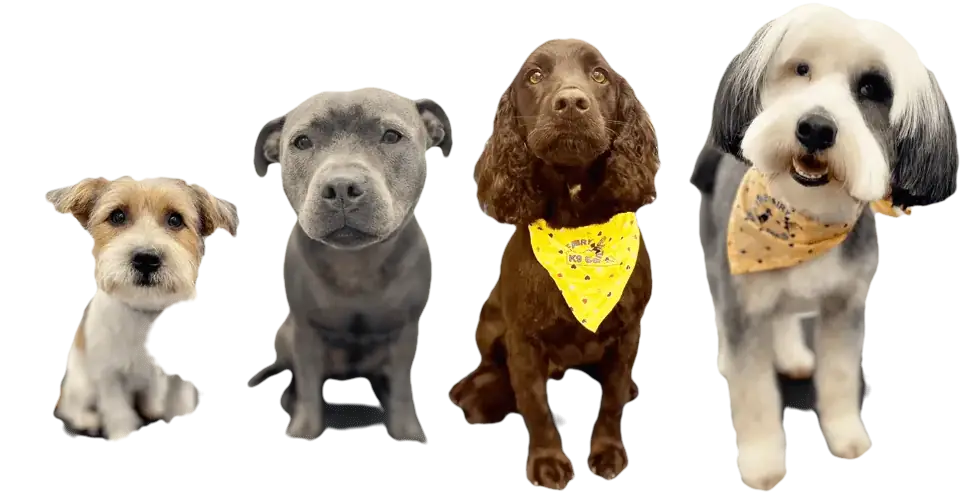
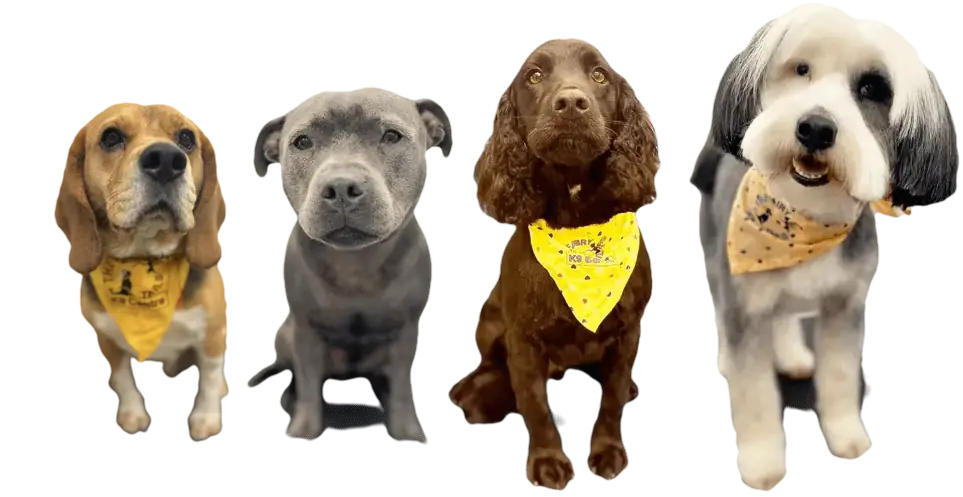
Hero: replace the handoff's cropped terrier with the owner's beagle
The handoff's leftmost dog read as cut off, and measurement confirmed it: its
feet stopped at row 440 while dogs 3 and 4 reach 489/490, so its lower body was
cropped in the original composite. Owner supplied a photo of his beagle - in a
Fairy Tails K9 Centre bandana, matching dogs 3 and 4 - to replace it.

Background removed with rembg (isnet-general-use + alpha matting), trimmed to
its alpha bbox, and composited IN THE SCRIPT rather than by hand-editing an
asset, so regeneration is reproducible. Sized to the staffie (a beagle is that
build) and stood on the back row's ground line, so the pack keeps its
small->large left-to-right reading.

beagle-cut.png lives in the gitignored handoff assets folder with the other
sources, so hero-assets.mjs now THROWS if it is missing - without that guard a
regeneration on another machine would silently emit the pack with the old
cropped terrier back in it, and no gate would catch it.

The swap moved the pack's top outline, so CONTOUR, GLINTS and ART_L were
re-measured against the new artwork. This was not optional: the old [127,373]
ended up 47px INSIDE the beagle's head, and [186,391] and [64,379] landed on
empty stage - stars would have rained into thin air on one side and been buried
in fur on the other. The two leftmost glints moved with it. New set verified at
a mean 3.6px clearance above the fur, and eyeballed at p=0.48, the frame where
the shower actually reaches that dog.
[…]

Changed region(s): [[0.0312, 0.2113, 0.2492, 0.9054]]

diff --git a/HANDOVER.md b/HANDOVER.md
@@ -21,6 +21,27 @@ Branch `hero-v2-pack-animation` → `main`. All gates green before the push (see
    (`4.9 ★★★★★ · 63 reviews`) removed; the "Verbatim excerpts… refreshed weekly" caption
    removed; the card grid replaced with a **swipe/arrow carousel**.
 
+### Follow-up the same session: dog 1 replaced (owner)
+
+The handoff's leftmost dog — a wire terrier — read as **cut off**, and measurement confirmed it:
+its feet stopped at row 440 while dogs 3 and 4 reach 489/490, i.e. its lower body was cropped in
+the original composite. The owner supplied a photo of his beagle (in a Fairy Tails K9 Centre
+bandana, matching dogs 3 and 4) to replace it.
+
+- Background removed with **`rembg`** (`isnet-general-use` + alpha matting), trimmed to its alpha
+  bbox → `beagle-cut.png`, which lives in the **gitignored handoff assets folder** with the other
+  sources. ⚠ `scripts/hero-assets.mjs` now **throws a hard error if that file is missing** — a
+  regeneration without it would silently emit the pack with the old cropped terrier back in, and
+  no gate would catch it.
+- Sized to the staffie (a beagle is that build) and stood on the back row's ground line, so the
+  pack keeps its small→large left-to-right reading. Composited in the SCRIPT, not by hand-editing
+  an asset, so it is reproducible.
+- ⚠ **The swap moved the pack's top outline, so `CONTOUR`, `GLINTS` and `ART_L` were re-measured**
+  — the old `[127,373]` ended up **47px inside the beagle's head** and `[186,391]`/`[64,379]` landed
+  on empty stage, which would have rained stars into thin air and buried others in fur. New set
+  verified at a mean 3.6px clearance above the fur. **Any future artwork change means re-measuring
+  these three again — they are not portable constants.**
+
 ### Owner-visible caveats carried out of this session
 
 - ⚠ **The reviews carousel is built but the DATA cannot fill it yet.** The n8n "Grooming Reviews

diff --git a/CLAUDE.md b/CLAUDE.md
@@ -159,6 +159,14 @@ copy's type scales with `--ft-stage-h`, not the page: a fixed-size copy block la
   shadow as an alpha-only stencil that CSS paints darker than the band. All constants in
   `scripts/hero-assets.mjs` are MEASURED; its header shows the workings and the rejected
   alternatives. **Always judge this artwork composited on #2c3823, never on white.**
+- ⚠ **Dog 1 is NOT from the handoff.** The handoff's leftmost dog was a wire terrier whose lower
+  body was cropped (feet at row 440 vs 489/490 for dogs 3–4), so it read as cut off. It was
+  replaced 2026-08-09 by the owner's beagle, cut out with `rembg` and composited **in
+  `hero-assets.mjs`** from `beagle-cut.png` in the gitignored handoff assets folder. That script
+  **throws if the file is missing** — otherwise a regeneration would silently restore the terrier.
+  ⚠ That swap moved the pack's top outline, so `CONTOUR`, `GLINTS` and `ART_L` in HeroStage were
+  re-measured against it. **Change the artwork and you MUST re-measure all three** — the old
+  values put stars 47px inside the new dog's head and two anchors on empty stage.
 - ⚠ **The handoff's own numbers are not trustworthy — verify against the artwork.** Measured in
   v2: its emission origin (606,138) and its visible wand star both land on **fully transparent
   pixels**, 25px and 21px from anything opaque (the real wand tip is stage 590,99); its reveal
